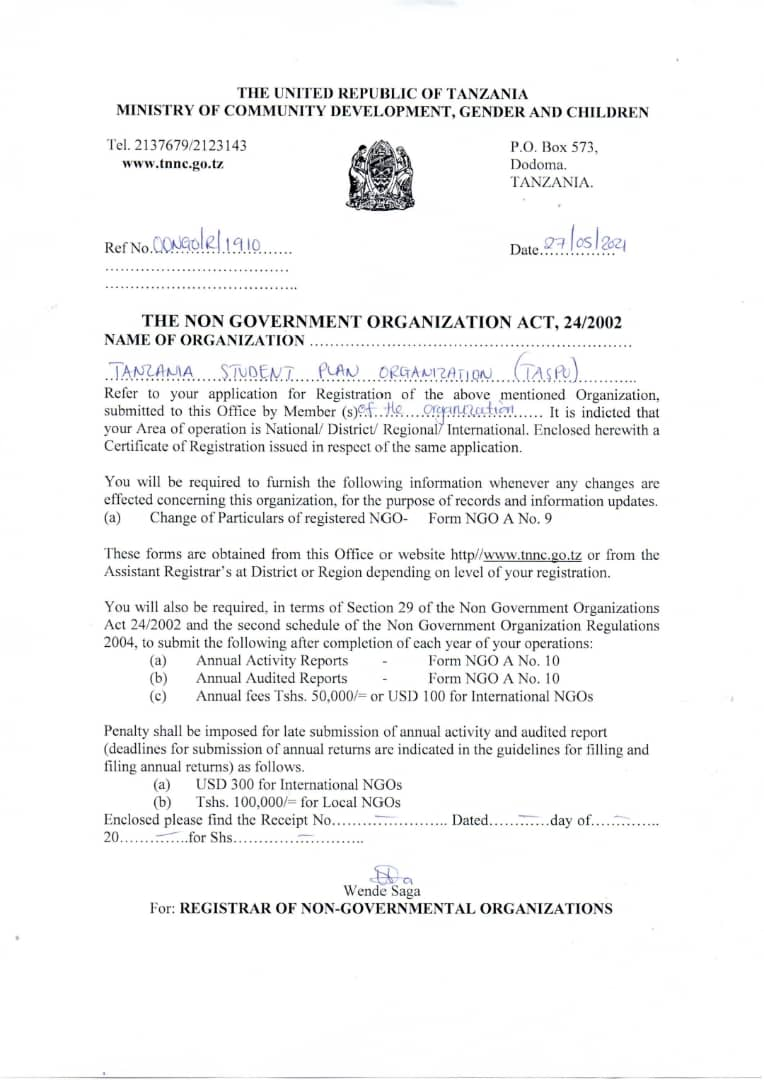
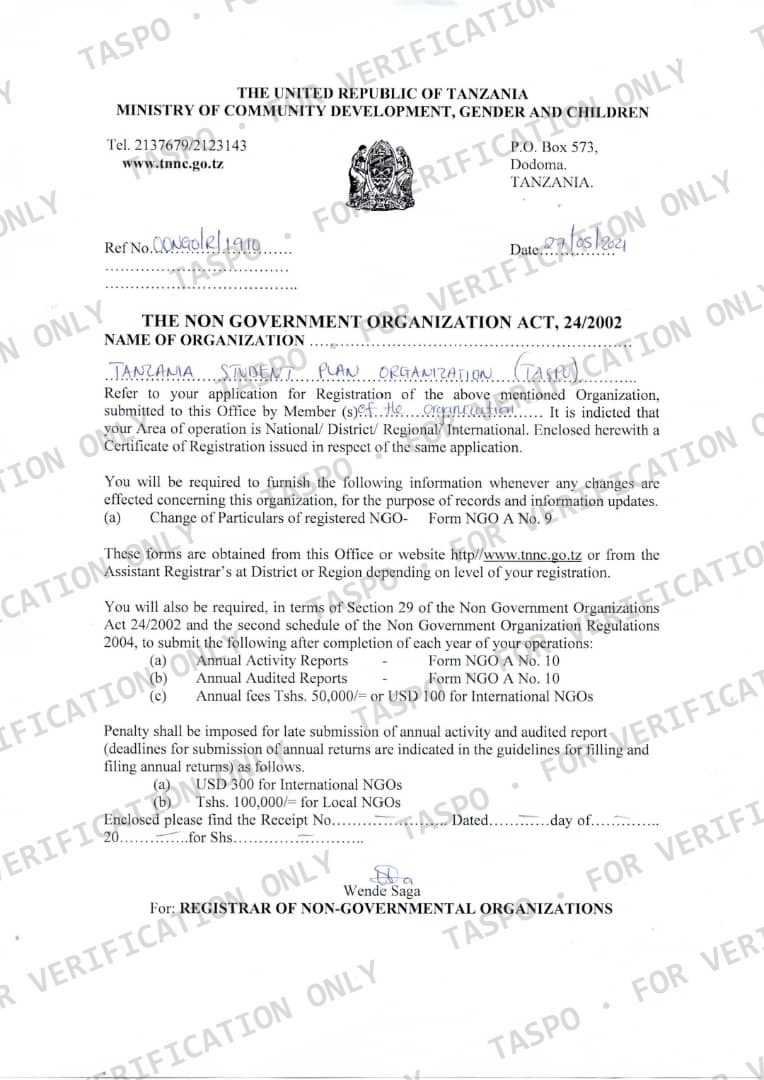
Protect the licence documents from casual copying
- Watermark the two certificate images ("TASPO · FOR VERIFICATION
  ONLY", diagonal, repeating) baked directly into the JPGs, so even a
  screenshot or the raw file carries it.
- Replace the direct-file links with an in-page lightbox: cards no
  longer link straight to the raw image/PDF, right-click and drag are
  disabled on the certificate images.
- PDF opens in an embedded, toolbar-less viewer inside the lightbox,
  with a "Open in a new tab" fallback link for browsers that can't
  render it inline. The PDF can't be watermarked or fully locked down
  this way — its own viewer's download control is outside the page's
  control.

None of this stops a determined visitor (screenshots always work),
but it removes the direct download links and adds real friction.

diff --git a/css/styles.css b/css/styles.css
@@ -359,12 +359,16 @@ header{
 /* ---------- LICENCES ---------- */
 .licence-grid{display:grid; grid-template-columns:repeat(auto-fill, minmax(280px, 1fr)); gap:28px;}
 .licence-card{
-  display:block; color:inherit; text-decoration:none;
+  display:block; width:100%; margin:0; color:inherit; text-decoration:none;
   background:#fff; border:1px solid rgba(28,23,18,0.08); border-radius:3px; overflow:hidden;
+  font:inherit; text-align:left; cursor:pointer;
   transition:transform .25s ease, box-shadow .25s ease;
 }
 .licence-card:hover{transform:translateY(-4px); box-shadow:0 14px 32px rgba(28,23,18,0.1);}
-.licence-card img{width:100%; height:240px; object-fit:contain; background:var(--paper-dim); display:block; padding:14px;}
+.licence-card img{
+  width:100%; height:240px; object-fit:contain; background:var(--paper-dim); display:block; padding:14px;
+  -webkit-user-drag:none; user-select:none; pointer-events:none;
+}
 .licence-card .licence-placeholder{
   width:100%; height:240px; display:flex; align-items:center; justify-content:center;
   background:var(--ink); color:var(--gold); font-family:'Fragment Mono', monospace;
@@ -377,6 +381,35 @@ header{
   display:inline-block; font-family:'Fragment Mono', monospace;
   font-size:0.7rem; letter-spacing:0.05em; text-transform:uppercase; color:var(--rust);
 }
+
+.licence-lightbox{position:fixed; inset:0; z-index:200; align-items:center; justify-content:center; padding:28px;}
+.licence-lightbox[hidden]{display:none;}
+.licence-lightbox:not([hidden]){display:flex;}
+.licence-lightbox-backdrop{position:absolute; inset:0; background:rgba(28,23,18,0.82);}
+.licence-lightbox-panel{
+  position:relative; background:#fff; border-radius:4px; max-width:min(860px, 100%); max-height:100%;
+  display:flex; flex-direction:column; overflow:hidden; box-shadow:0 24px 60px rgba(0,0,0,0.4);
+}
+.licence-lightbox-head{
+  display:flex; align-items:center; justify-content:space-between; gap:16px;
+  padding:18px 22px; border-bottom:1px solid rgba(28,23,18,0.08);
+}
+.licence-lightbox-head h3{font-family:'Frank Ruhl Libre', serif; font-size:1.1rem; font-weight:600; color:var(--ink);}
+.licence-lightbox-close{
+  background:none; border:none; font-size:1.2rem; line-height:1; color:var(--stone); cursor:pointer; padding:4px 6px;
+}
+.licence-lightbox-close:hover{color:var(--rust);}
+.licence-lightbox-body{overflow:auto; background:var(--paper-dim); display:flex; align-items:center; justify-content:center; min-height:200px;}
+.licence-lightbox-body img{
+  max-width:100%; max-height:70vh; display:block;
+  -webkit-user-drag:none; user-select:none; pointer-events:none;
+}
+.licence-lightbox-pdf{display:flex; flex-direction:column; align-items:center; gap:10px;}
+.licence-lightbox-body iframe{width:min(820px, 90vw); height:65vh; border:none; background:#fff;}
+.licence-lightbox-fallback{font-size:0.82rem; color:var(--stone);}
+.licence-lightbox-fallback a{color:var(--rust);}
+.licence-lightbox-note{padding:14px 22px 20px; font-size:0.82rem; color:var(--stone); border-top:1px solid rgba(28,23,18,0.08);}
+.licence-lightbox-note a{color:var(--rust);}
 .taspo-dark-band{background:var(--ink); color:var(--paper); padding:92px 0;}
 .taspo-dark-band .eyebrow{margin-bottom:18px;}
 .taspo-dark-band h2{color:#faf6ec; font-size:clamp(1.8rem, 3vw, 2.4rem); max-width:26ch; margin-bottom:20px;}

diff --git a/licences.html b/licences.html
@@ -51,33 +51,45 @@
 <section class="section">
   <div class="wrap">
     <div class="licence-grid">
-      <a class="licence-card" href="images/licence-ngo-registration.jpg" target="_blank" rel="noopener">
-        <img src="images/licence-ngo-registration.jpg" alt="NGO Certificate of Registration">
+      <button type="button" class="licence-card" data-licence-src="images/licence-ngo-registration.jpg" data-licence-type="image" data-licence-title="NGO Certificate of Registration">
+        <img src="images/licence-ngo-registration.jpg" alt="NGO Certificate of Registration" oncontextmenu="return false" draggable="false">
         <div class="licence-card-body">
           <h3>NGO Certificate of Registration</h3>
           <p>Registration No. OONGO/R/1910, issued 27 May 2021 under the Non-Governmental Organisations Act, 2002. Valid until 26 May 2031.</p>
           <span class="read-more-label">View Certificate ↗</span>
         </div>
-      </a>
-      <a class="licence-card" href="images/licence-ministry-letter.jpg" target="_blank" rel="noopener">
-        <img src="images/licence-ministry-letter.jpg" alt="Ministry of Community Development, Gender and Children registration letter">
+      </button>
+      <button type="button" class="licence-card" data-licence-src="images/licence-ministry-letter.jpg" data-licence-type="image" data-licence-title="Ministry Registration Letter">
+        <img src="images/licence-ministry-letter.jpg" alt="Ministry of Community Development, Gender and Children registration letter" oncontextmenu="return false" draggable="false">
         <div class="licence-card-body">
           <h3>Ministry Registration Letter</h3>
           <p>Confirmation letter from the Ministry of Community Development, Gender and Children, Ref No. OONGO/R/1910, dated 27 May 2021.</p>
           <span class="read-more-label">View Letter ↗</span>
         </div>
-      </a>
-      <a class="licence-card" href="images/licence-nssf-registration.pdf" target="_blank" rel="noopener">
+      </button>
+      <button type="button" class="licence-card" data-licence-src="images/licence-nssf-registration.pdf" data-licence-type="pdf" data-licence-title="NSSF Certificate of Registration">
         <div class="licence-placeholder">PDF</div>
         <div class="licence-card-body">
           <h3>NSSF Certificate of Registration</h3>
           <p>Registered with the National Social Security Fund as an employer, Registration No. 1033809, dated 20 January 2022.</p>
           <span class="read-more-label">View PDF ↗</span>
         </div>
-      </a>
+      </button>
     </div>
   </div>
 </section>
+
+<div class="licence-lightbox" id="licence-lightbox" hidden>
+  <div class="licence-lightbox-backdrop" data-licence-close></div>
+  <div class="licence-lightbox-panel">
+    <div class="licence-lightbox-head">
+      <h3 id="licence-lightbox-title"></h3>
+      <button type="button" class="licence-lightbox-close" data-licence-close aria-label="Close">✕</button>
+    </div>
+    <div class="licence-lightbox-body" id="licence-lightbox-body"></div>
+    <p class="licence-lightbox-note">For verification only — please contact <a href="mailto:support@shimucorp.com">support@shimucorp.com</a> for an official copy.</p>
+  </div>
+</div>
 
 <footer>
   <div class="wrap">

diff --git a/js/main.js b/js/main.js
@@ -49,6 +49,63 @@ document.addEventListener('DOMContentLoaded', () => {
     });
   }
 
+  // Licences page: open certificates in an in-page lightbox instead of
+  // linking to the raw file, and block right-click/drag on the images.
+  // This deters casual copying — it can't stop a screenshot, and the
+  // PDF's own viewer toolbar (Chrome/Edge/Firefox built-in) is outside
+  // the page's control.
+  const lightbox = document.getElementById('licence-lightbox');
+  if (lightbox) {
+    const body = document.getElementById('licence-lightbox-body');
+    const title = document.getElementById('licence-lightbox-title');
+    const openLightbox = (src, type, label) => {
+      title.textContent = label || '';
+      body.innerHTML = '';
+      if (type === 'pdf') {
+        const wrap = document.createElement('div');
+        wrap.className = 'licence-lightbox-pdf';
+        const frame = document.createElement('iframe');
+        frame.src = src + '#toolbar=0&navpanes=0';
+        frame.title = label || 'Document preview';
+        const fallback = document.createElement('p');
+        fallback.className = 'licence-lightbox-fallback';
+        fallback.innerHTML = 'Not showing? <a href="' + src + '" target="_blank" rel="noopener">Open the PDF in a new tab ↗</a>';
+        wrap.appendChild(frame);
+        wrap.appendChild(fallback);
+        body.appendChild(wrap);
+      } else {
+        const img = document.createElement('img');
+        img.src = src;
+        img.alt = label || '';
+        img.oncontextmenu = () => false;
+        img.draggable = false;
+        body.appendChild(img);
+      }
+      lightbox.hidden = false;
+      document.body.style.overflow = 'hidden';
+    };
+    const closeLightbox = () => {
+      lightbox.hidden = true;
+      body.innerHTML = '';
+      document.body.style.overflow = '';
+    };
+    document.querySelectorAll('[data-licence-src]').forEach((card) => {
+      card.addEventListener('click', () => {
+        openLightbox(
+          card.getAttribute('data-licence-src'),
+          card.getAttribute('data-licence-type'),
+          card.getAttribute('data-licence-title')
+        );
+      });
+    });
+    lightbox.querySelectorAll('[data-licence-close]').forEach((el) => {
+      el.addEventListener('click', closeLightbox);
+    });
+    document.addEventListener('keydown', (event) => {
+      if (event.key === 'Escape' && !lightbox.hidden) closeLightbox();
+    });
+  }
+
   const nav = document.querySelector('.nav');
   const burger = document.querySelector('.burger');
   if (!nav || !burger) return;
